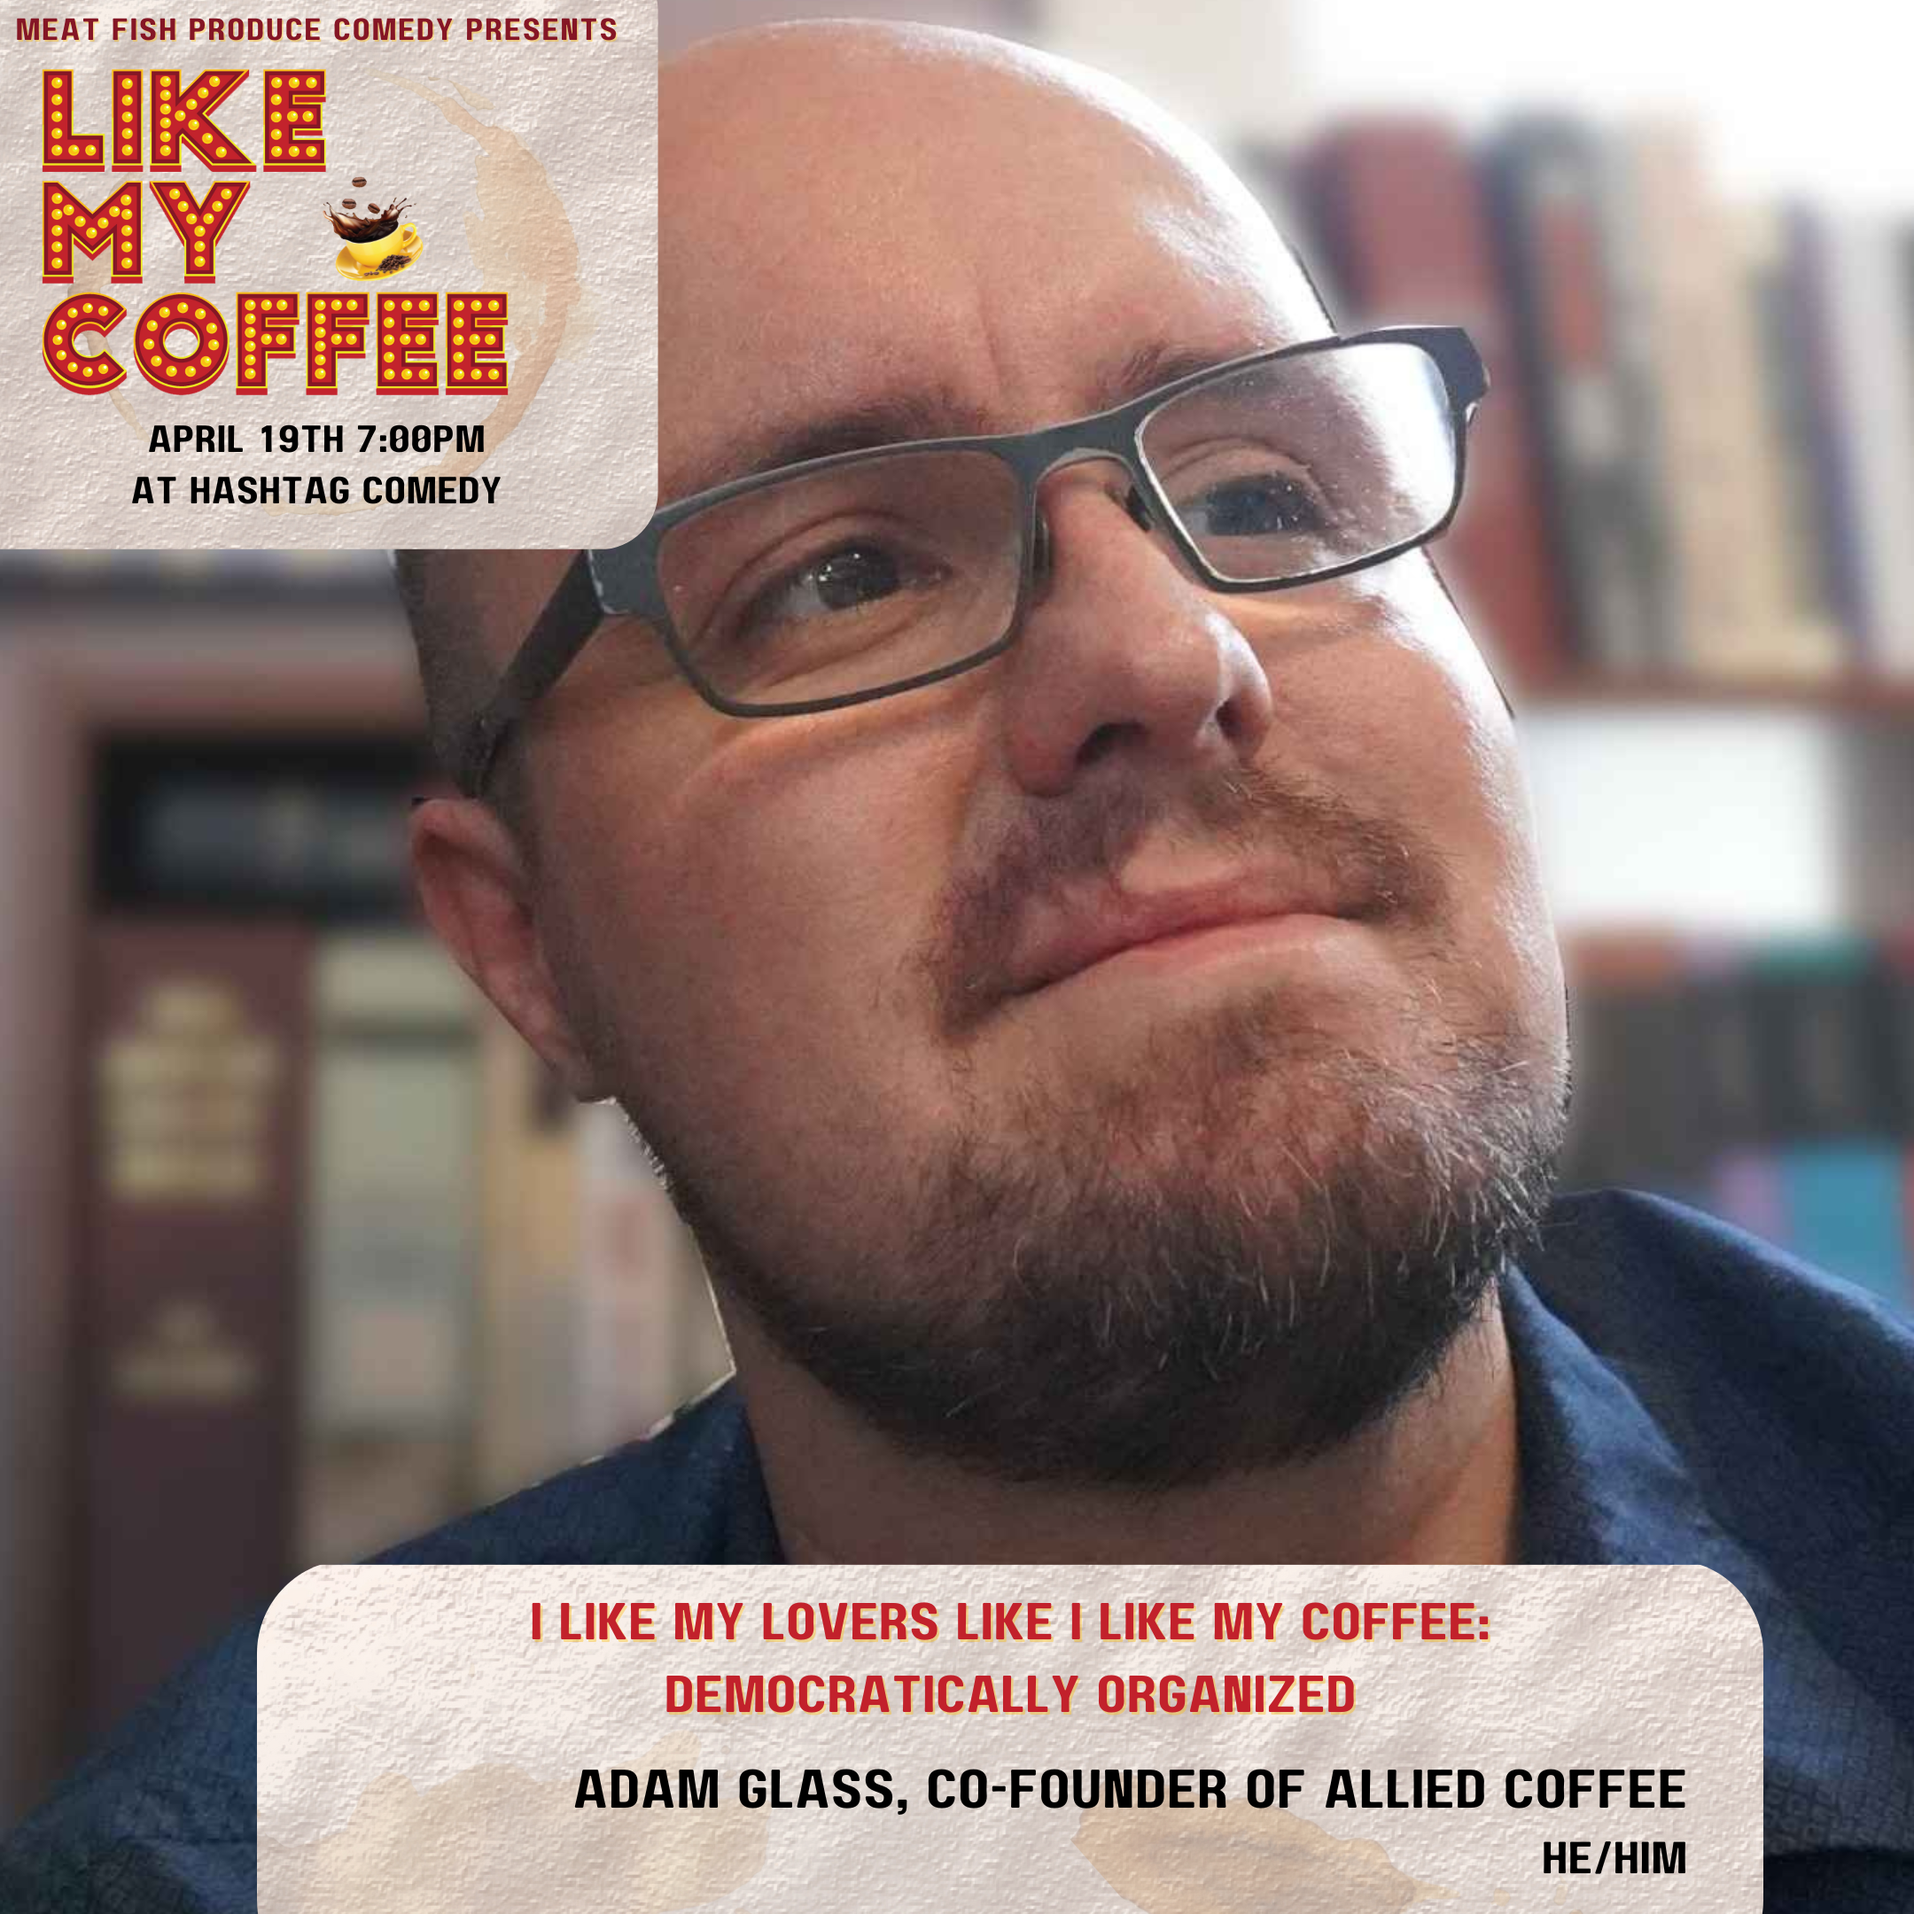
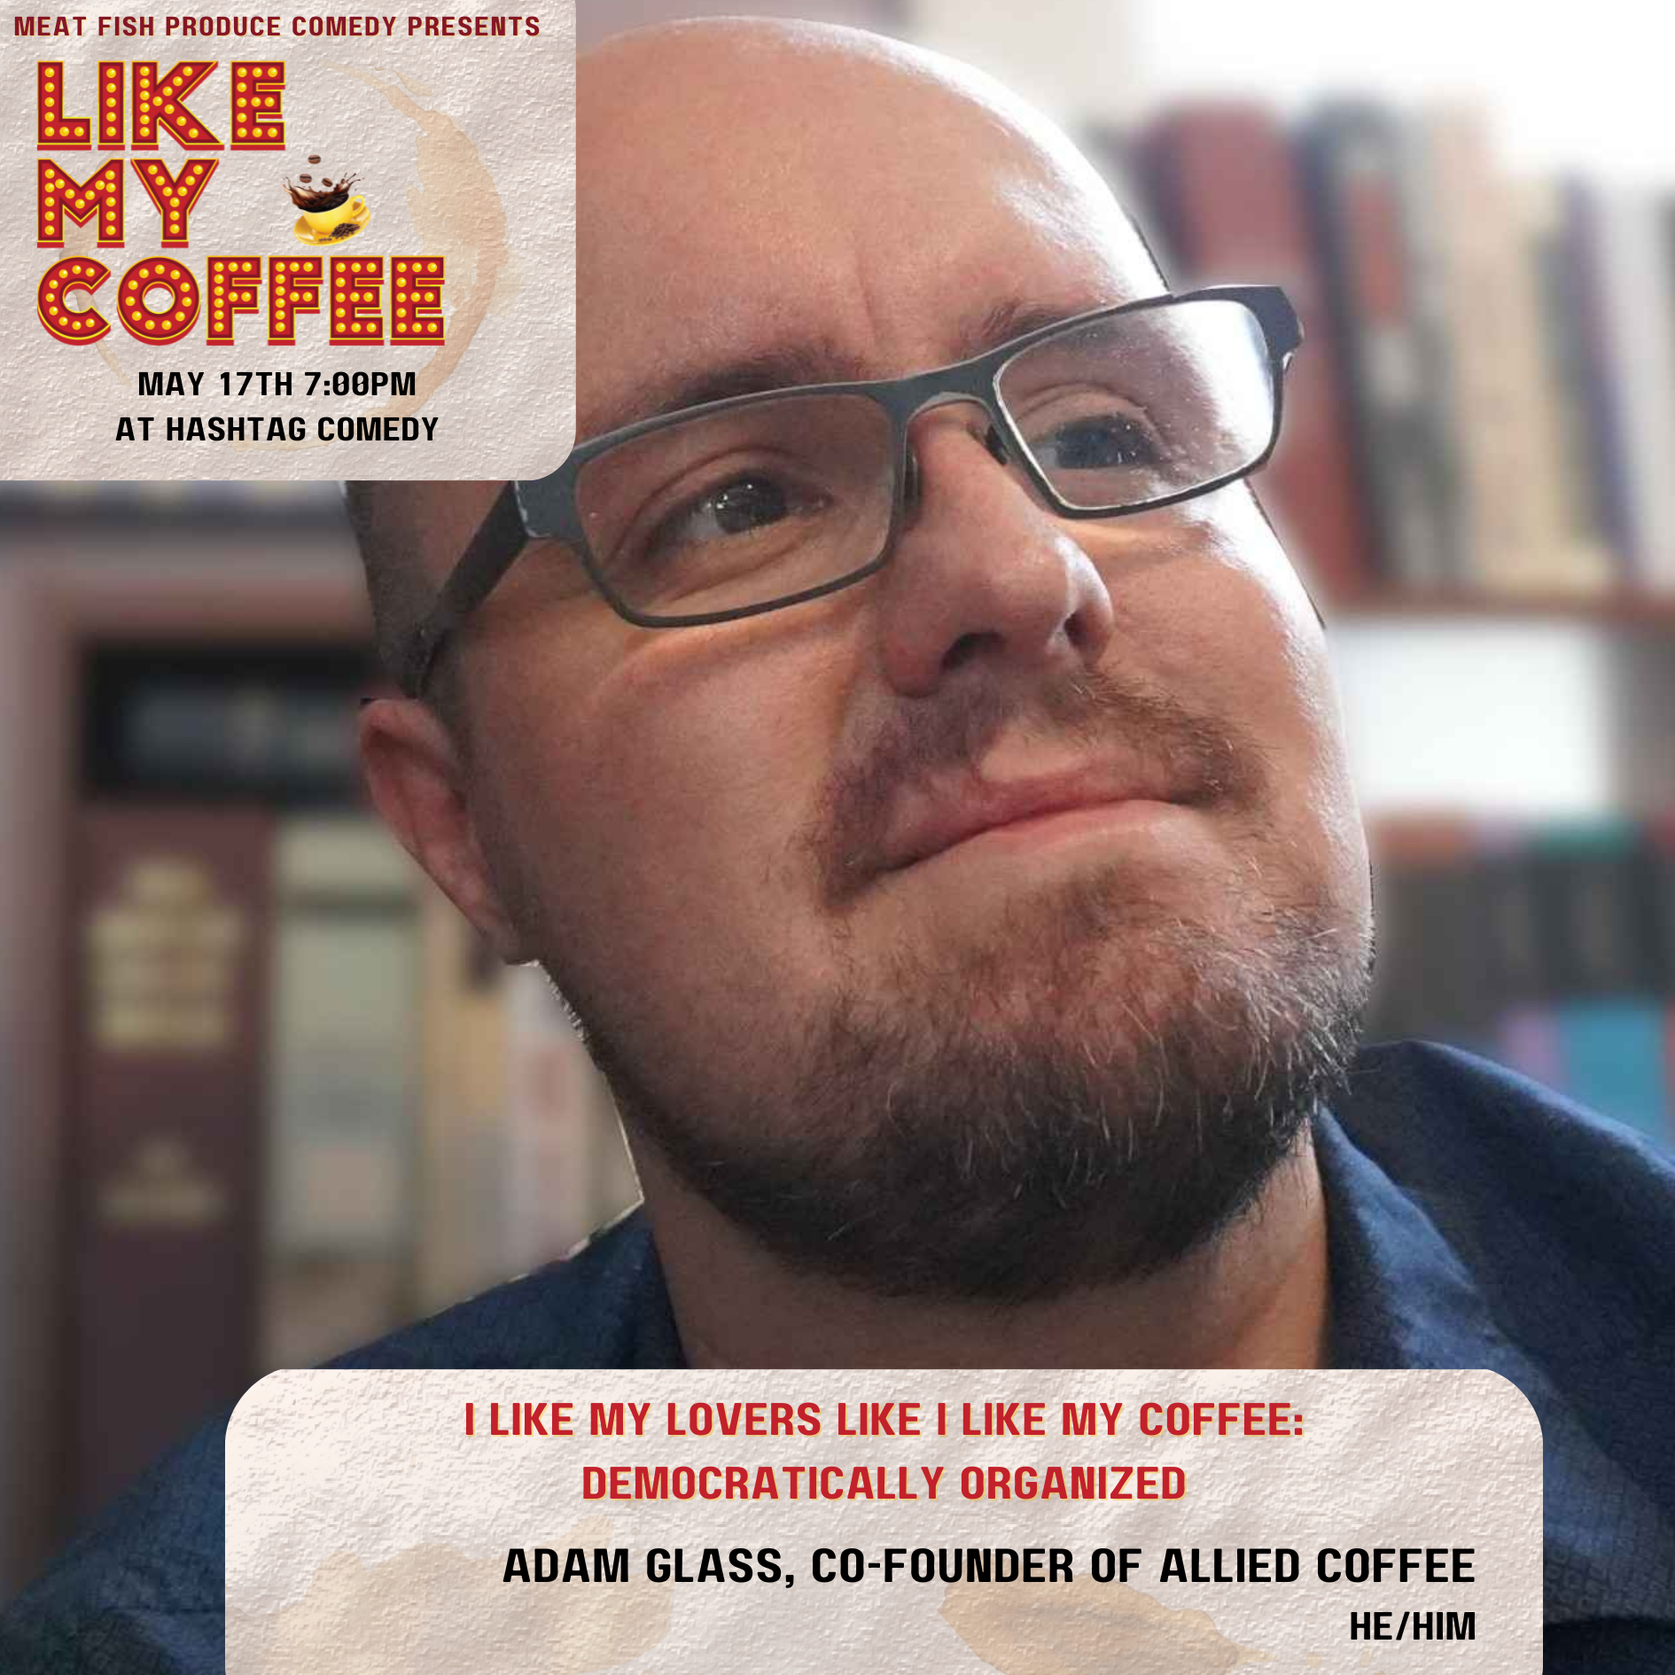
Updating show data for May 2025

Changed region(s): [[0.0624, 0.2185, 0.2497, 0.2497]]

diff --git a/server/src/shows/20250517.ts b/server/src/shows/20250517.ts
@@ -1,0 +1,138 @@
+import { ShowType } from "../../sharedCopy";
+
+export const show: ShowType = {
+	rounds: [
+		{
+			players: [
+				{
+					displayName: "Kal",
+					pronouns: "She/Her",
+					score: 0,
+					soundIndex: 0,
+					isWinner: false,
+				},
+				{
+					displayName: "Rico",
+					pronouns: "He/Him",
+					score: 0,
+					soundIndex: 1,
+					isWinner: false,
+				},
+				{
+					displayName: "Rina",
+					pronouns: "She/Her",
+					score: 0,
+					soundIndex: 2,
+					isWinner: false,
+				},
+			],
+			minigame: "Dating Apps",
+			example: "Facebook: It's been a while since someone's poked me",
+			timelength: 12,
+		},
+		{
+			players: [
+				{
+					displayName: "Lindy",
+					pronouns: "She/Her",
+					score: 0,
+					soundIndex: 3,
+					isWinner: false,
+				},
+				{
+					displayName: "Molly",
+					pronouns: "She/Her",
+					score: 0,
+					soundIndex: 4,
+					isWinner: false,
+				},
+				{
+					displayName: "Pinak",
+					pronouns: "He/Him",
+					score: 0,
+					soundIndex: 5,
+					isWinner: false,
+				},
+			],
+			minigame: "Sexy Slogans",
+			example: "Nintendo: Looking for a new Switch",
+			timelength: 12,
+		},
+		{
+			players: [
+				{
+					displayName: "Jeremy",
+					pronouns: "He/Him",
+					score: 0,
+					soundIndex: 6,
+					isWinner: false,
+				},
+				{
+					displayName: "Kevin",
+					pronouns: "He/Him",
+					score: 0,
+					soundIndex: 7,
+					isWinner: false,
+				},
+				{
+					displayName: "Leslie",
+					pronouns: "She/Her",
+					score: 0,
+					soundIndex: 8,
+					isWinner: false,
+				},
+			],
+			minigame: "Communication Breakdown",
+			example:
+				"Doing the laundry - Yeah I'm OK to put another load in before going to bed.",
+			timelength: 12,
+		},
+		{
+			players: [
+				{
+					displayName: "Dummy Data",
+					pronouns: "",
+					score: 0,
+					soundIndex: 9,
+					isWinner: false,
+				},
+				{
+					displayName: "Dummy Data",
+					pronouns: "",
+					score: 0,
+					soundIndex: 10,
+					isWinner: false,
+				},
+				{
+					displayName: "Dummy Data",
+					pronouns: "",
+					score: 0,
+					soundIndex: 11,
+					isWinner: false,
+				},
+			],
+			minigame: "",
+			example: "",
+			timelength: 10,
+		},
+	],
+	images: [
+		"Apply.png",
+		"Jeremy.png",
+		"Kal.png",
+		"Kevin.png",
+		"Leslie.png",
+		"Lindy.png",
+		"JD.png",
+		"Justin.png",
+		"Molly.png",
+		"Pinak.png",
+		"Rico.png",
+		"Rina.png",
+		"Adam.png",
+		"Social.png",
+	],
+	logo: "logo.png",
+	apply: "Apply.png",
+	social: "Social.png",
+};

diff --git a/server/src/shows/archived/20250419.ts b/server/src/shows/archived/20250419.ts
@@ -1,4 +1,4 @@
-import { ShowType } from "../../sharedCopy";
+import { ShowType } from "../../../sharedCopy";
 
 export const show: ShowType = {
 	rounds: [

diff --git a/server/src/shows/index.ts b/server/src/shows/index.ts
@@ -1,2 +1,2 @@
 //Update where this points to before every new show!
-export * from "./20250419";
+export * from "./20250517";
